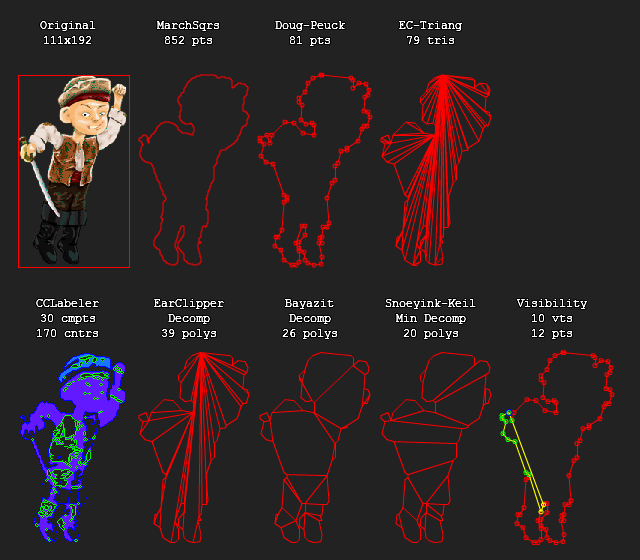
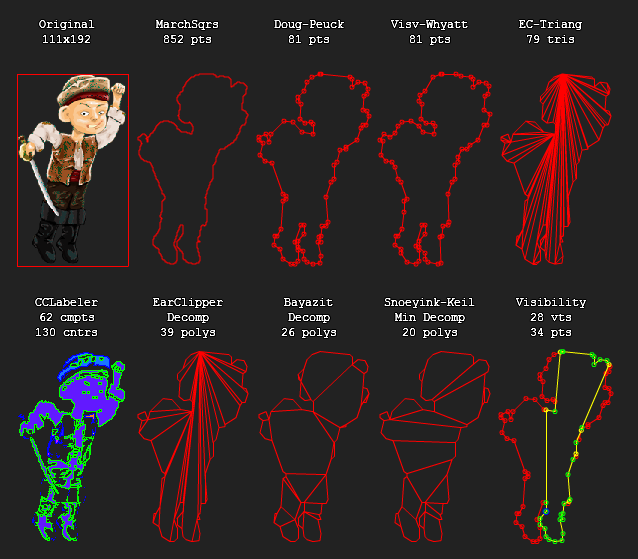
Updated text files + new screenshot for VW simpl.

diff --git a/README.md b/README.md
@@ -5,21 +5,23 @@ Small collection of geometry algorithms in Haxe 3. ([link to AS3 port](https://g
 
 ![](screenshot.png)
 
-#### [Marching Squares](http://en.wikipedia.org/wiki/Marching_squares)
+**NOTE: All algorithms assume the y-axis is pointing downward.**
+
+#### [Marching Squares (Contour Tracing)](http://en.wikipedia.org/wiki/Marching_squares)
 
 Based on:
 
  - [http://devblog.phillipspiess.com/2010/02/23/better-know-an-algorithm-1-marching-squares/](http://devblog.phillipspiess.com/2010/02/23/better-know-an-algorithm-1-marching-squares/)	(C# - by Phil Spiess)
  - [http://www.tomgibara.com/computer-vision/marching-squares](http://www.tomgibara.com/computer-vision/marching-squares)	(Java - by Tom Gibara)
 
-#### [Ramer-Douglas-Peucker](http://en.wikipedia.org/wiki/Ramer%E2%80%93Douglas%E2%80%93Peucker_algorithm)
+#### [Ramer-Douglas-Peucker (Polyline Simplification)](http://en.wikipedia.org/wiki/Ramer%E2%80%93Douglas%E2%80%93Peucker_algorithm)
 
 Based on:
 
  - [http://karthaus.nl/rdp/](http://karthaus.nl/rdp/) (JS - by Marius Karthaus)
  - [http://stackoverflow.com/questions/849211/shortest-distance-between-a-point-and-a-line-segment](http://stackoverflow.com/questions/849211/shortest-distance-between-a-point-and-a-line-segment)	(JS - Grumdrig)
 
-#### [Ear Clipping](http://en.wikipedia.org/wiki/Ear_clipping#Ear_clipping_method)
+#### [Ear Clipping (Triangulation and Poly Decomposition)](http://en.wikipedia.org/wiki/Ear_clipping#Ear_clipping_method)
 
 Based on:
 
@@ -29,7 +31,7 @@ Based on:
  - [http://blog.touchmypixel.com/2008/06/making-convex-polygons-from-concave-ones-ear-clipping/](http://blog.touchmypixel.com/2008/06/making-convex-polygons-from-concave-ones-ear-clipping/) 	(AS3 - by Tarwin Stroh-Spijer)
  - [http://headsoft.com.au/](http://headsoft.com.au/)	(C# - by Ben Baker)
 
-#### [Bayazit PolyDecomp](http://mnbayazit.com/406/overview)
+#### [Bayazit (Poly Decomposition)](http://mnbayazit.com/406/overview)
 
 Based on:
 
@@ -41,23 +43,31 @@ Based on:
 
  - [http://www.cs.ubc.ca/~snoeyink/demos/convdecomp/VPDemo.html](http://www.cs.ubc.ca/~snoeyink/demos/convdecomp/VPDemo.html)	(Java - by Jack Snoeyink)
 
-#### [Snoeyink-Keil Minimum Convex Decomposition](http://www.cs.ubc.ca/~snoeyink/demos/convdecomp/MCDDemo.html)
+#### [Snoeyink-Keil (Minimum Convex Decomposition)](http://www.cs.ubc.ca/~snoeyink/demos/convdecomp/MCDDemo.html)
 
 Based on:
 
    - [http://www.cs.ubc.ca/~snoeyink/demos/convdecomp/MCDDemo.html](http://www.cs.ubc.ca/~snoeyink/demos/convdecomp/MCDDemo.html) (Java - by Jack Snoeyink & Mark Keil)
    - [J. Mark Keil](http://www.informatik.uni-trier.de/~ley/pers/hd/k/Keil:J=_Mark), [Jack Snoeyink](http://www.informatik.uni-trier.de/~ley/pers/hd/s/Snoeyink:Jack.html): On the Time Bound for Convex Decomposition of Simple Polygons. [Int. J. Comput. Geometry Appl. 12](http://www.informatik.uni-trier.de/~ley/db/journals/ijcga/ijcga12.html#KeilS02)(3): 181-192 (2002)
 
-#### [Connected Components Labeling](http://en.wikipedia.org/wiki/Connected-component_labeling)
+#### [Connected Components Labeling (with optional Contour Tracing)](http://en.wikipedia.org/wiki/Connected-component_labeling)
 
 Based on:
 
- - [Fu Chang, Chun-jen Chen, Chi-jen Lu: A linear-time component-labeling algorithm using contour tracing technique (2004)](http://www.iis.sinica.edu.tw/papers/fchang/1362-F.pdf)
+ - Fu Chang, Chun-jen Chen, Chi-jen Lu: [A linear-time component-labeling algorithm using contour tracing technique](http://www.iis.sinica.edu.tw/papers/fchang/1362-F.pdf) (2004)
+
+#### [Visvalingam-Whyatt (Polyline Simplification)](http://bost.ocks.org/mike/simplify/)
+
+Based on:
+
+ - Visvalingam M., Whyatt J. D.: [Line generalisation by repeated elimination of the smallest area](https://hydra.hull.ac.uk/resources/hull:8338) (1992)
+ - [http://bost.ocks.org/mike/simplify/](http://bost.ocks.org/mike/simplify/) (JS - by Mike Bostock)
+ - [http://en.wikipedia.org/wiki/Binary_heap](http://en.wikipedia.org/wiki/Binary_heap) (Binary (Min)Heap)
 
 
 ## Credits
 
-**hxGeomAlgo** is based on the work of many developers and it wouldn't exist if it weren't for them. See the [CREDITS](CREDITS.md) file for a full list.
+**hxGeomAlgo** is based on the work of many developers and it wouldn't exist if it weren't for them. See the [CREDITS](CREDITS.md) file for details.
 
 ## License
 

diff --git a/CREDITS.md b/CREDITS.md
@@ -2,25 +2,29 @@
 
  - HaxeFoundation ([http://haxe-foundation.org/](http://haxe-foundation.org/))
  - OpenFL ([http://www.openfl.org/](http://www.openfl.org/))
- - Marching Squares
+ - Marching Squares (Contour Tracing)
    - [http://devblog.phillipspiess.com/2010/02/23/better-know-an-algorithm-1-marching-squares/](http://devblog.phillipspiess.com/2010/02/23/better-know-an-algorithm-1-marching-squares/)	(Phil Spiess)
    - [http://www.tomgibara.com/computer-vision/marching-squares](http://www.tomgibara.com/computer-vision/marching-squares)	(Tom Gibara)
- - Ramer-Douglas-Peucker
+ - Ramer-Douglas-Peucker (Polyline Simplification)
    - [http://karthaus.nl/rdp/](http://karthaus.nl/rdp/) (Marius Karthaus)
    - [http://stackoverflow.com/questions/849211/shortest-distance-between-a-point-and-a-line-segment](http://stackoverflow.com/questions/849211/shortest-distance-between-a-point-and-a-line-segment)	(Grumdrig)
- - Ear Clipping
+ - Ear Clipping (Triangulation and Poly Decomposition)
    - [http://www.box2d.org/forum/viewtopic.php?f=8&t=463&start=0](http://www.box2d.org/forum/viewtopic.php?f=8&t=463&start=0)	(mayobutter)
    - [http://www.ewjordan.com/earClip/](http://www.ewjordan.com/earClip/)			(Eric Jordan)
    - [http://en.nicoptere.net/?p=16](http://en.nicoptere.net/?p=16) (Nicolas Barradeau)
    - [http://blog.touchmypixel.com/2008/06/making-convex-polygons-from-concave-ones-ear-clipping/](http://blog.touchmypixel.com/2008/06/making-convex-polygons-from-concave-ones-ear-clipping/) 	(Tarwin Stroh-Spijer)
    - [http://headsoft.com.au/](http://headsoft.com.au/)	(Ben Baker)
- - Bayazit PolyDecomp
+ - Bayazit (Poly Decomposition)
     - [http://mnbayazit.com/406/bayazit](http://mnbayazit.com/406/bayazit)	(Mark Bayazit)
     - [http://mnbayazit.com/406/credit](http://mnbayazit.com/406/credit)
  - Visibilty Polygon and Homogeneous Coords (2D)
    - [http://www.cs.ubc.ca/~snoeyink/demos/convdecomp/VPDemo.html](http://www.cs.ubc.ca/~snoeyink/demos/convdecomp/VPDemo.html)	(Jack Snoeyink)
- - Snoeyink-Keil Minimum Convex Decomposition
+ - Snoeyink-Keil (Minimum Convex Decomposition)
    - [http://www.cs.ubc.ca/~snoeyink/demos/convdecomp/MCDDemo.html](http://www.cs.ubc.ca/~snoeyink/demos/convdecomp/MCDDemo.html) (Jack Snoeyink & Mark Keil)
    - [J. Mark Keil](http://www.informatik.uni-trier.de/~ley/pers/hd/k/Keil:J=_Mark), [Jack Snoeyink](http://www.informatik.uni-trier.de/~ley/pers/hd/s/Snoeyink:Jack.html): On the Time Bound for Convex Decomposition of Simple Polygons. [Int. J. Comput. Geometry Appl. 12](http://www.informatik.uni-trier.de/~ley/db/journals/ijcga/ijcga12.html#KeilS02)(3): 181-192 (2002)
- - Connected Components Labeling
-   - [Fu Chang, Chun-jen Chen, Chi-jen Lu: A linear-time component-labeling algorithm using contour tracing technique (2004)](http://www.iis.sinica.edu.tw/papers/fchang/1362-F.pdf)
+ - Connected Components Labeling (with optional Contour Tracing)
+   - Fu Chang, Chun-jen Chen, Chi-jen Lu: [A linear-time component-labeling algorithm using contour tracing technique](http://www.iis.sinica.edu.tw/papers/fchang/1362-F.pdf) (2004)
+ - Visvalingam-Whyatt (Polyline Simplification)
+   - Visvalingam M., Whyatt J. D.: [Line generalisation by repeated elimination of the smallest area](https://hydra.hull.ac.uk/resources/hull:8338) (1992)
+   - [http://bost.ocks.org/mike/simplify/](http://bost.ocks.org/mike/simplify/) (JS - by Mike Bostock)
+   - [http://en.wikipedia.org/wiki/Binary_heap](http://en.wikipedia.org/wiki/Binary_heap) (Binary (Min)Heap) 

diff --git a/CHANGELOG.md b/CHANGELOG.md
@@ -21,3 +21,7 @@
  - Added abstract HxPoint
  - Added initial impl. of Connected Components Labeling
  - CCLabeler: refactored and fixed various bugs
+ - CCLabeler: added 4-connectivity option
+ - MarchingSquares: fixed bug causing duplicate points
+ - Added first impl. of Visvalingam-Whyatt simplification (+ MinHeap)
+ - Visv-Whyatt: completed and improved
